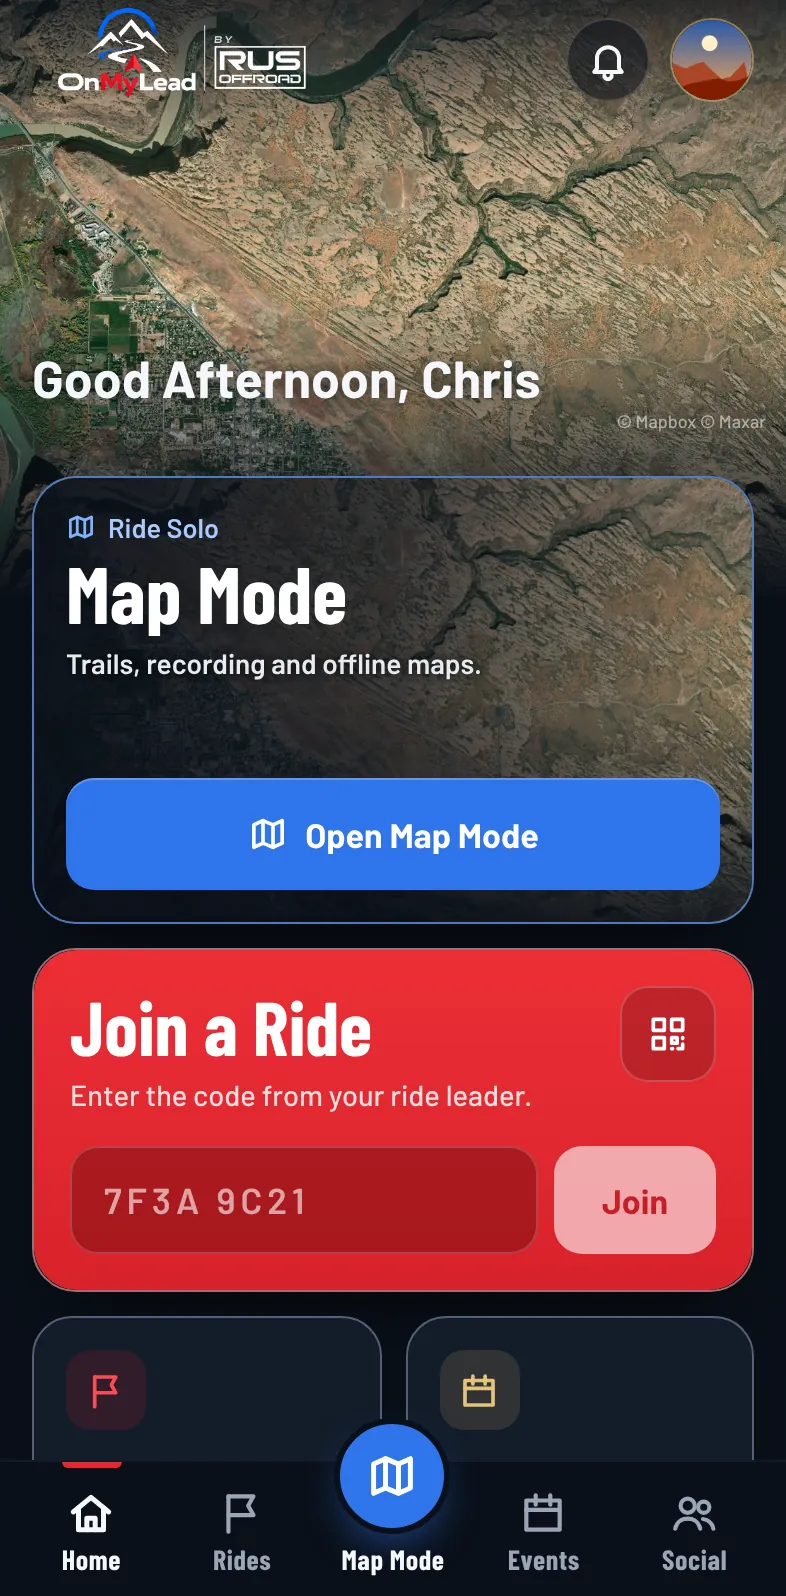
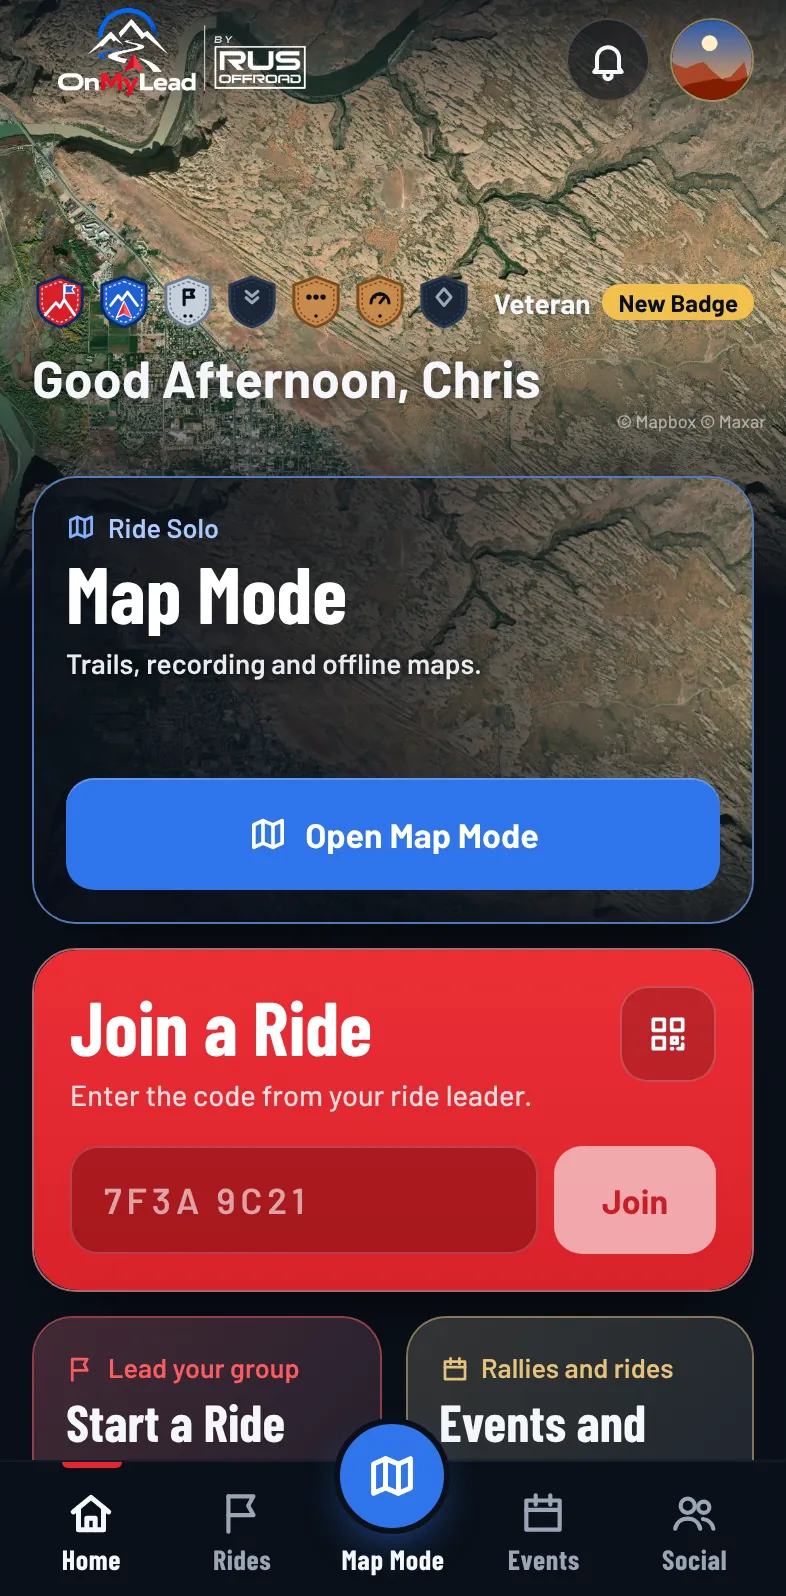
3.1 is live: mark it released and turn on the 3.1 showcase
The App Store and Google Play both have 3.1 (Apple lookup 3.1, released 2026-11-16 22:47Z;
Play shows 3.1). help/release.json live 3.1 with the build 22 / versionCode 16 record, release
notes dated, SHOWCASE_EASY_LEAVE, SHOWCASE_QUICK_CREATE and SHOWCASE_EVENTS_AND_RIDES on, and fresh
Create a Ride (create-3) and Home (home-3, new tiles) screens from store/tools/web-shots.

Parity: no feature change (website and Help Center publish what 3.1 already shipped)

Claude-Session: https://claude.ai/code/session_018oU3wjV3t9GXzp67fQMv3d

Changed region(s): [[0.0305, 0.7982, 0.4885, 0.9211], [0.0305, 0.1535, 0.9771, 0.2149], [0.5191, 0.7982, 0.855, 0.9211]]

diff --git a/app/src/components/showcase.web.tsx b/app/src/components/showcase.web.tsx
@@ -137,7 +137,9 @@ export function Showcase() {
             <Step
               n={1}
               shot="create"
-              alt="Create a Ride with The Route set to Mapped, next to Freeride, and the vehicles welcome"
+              alt={SHOWCASE_QUICK_CREATE
+                ? 'The 3.1 Create a Ride screen, already filled in: Today, a meeting time, Where You Are Now, Freeride, Friends I Invite, More Options and Create Private Ride'
+                : 'Create a Ride with The Route set to Mapped, next to Freeride, and the vehicles welcome'}
               title="Create a Ride"
               text={SHOWCASE_QUICK_CREATE
                 ? 'One short screen, already filled in: today, the next quarter hour, where you are, and a ride for the friends you invite. Tap Create and share the link, or tap the day, the time or the meeting point to change it. Your last meeting spots are one tap. Pick Mapped and tap along the trail so the route snaps to it, or import a GPX file, or pick Freeride and everyone follows the leader. Under More Options, set which machines are welcome or make it approval-only.'
@@ -613,7 +615,7 @@ function Step({ n, shot, alt, title, text, points }: { n: number; shot: string; 
  * the 2.x ones once 3.0 is live: `name-3.webp` sits beside `name.webp` until SHOWCASE_REDESIGN_3 is on.
  * Remake them with store/tools/web-shots/showcase.sh.
  */
-const FRESH_3 = new Set(['group-map', 'find', 'live', 'navigate', 'vehicle']);
+const FRESH_3 = new Set(['group-map', 'find', 'live', 'navigate', 'vehicle', ...(SHOWCASE_QUICK_CREATE ? ['create'] : [])]);
 const v3 = (name: string) => (SHOWCASE_REDESIGN_3 && FRESH_3.has(name) ? `${name}-3` : name);
 
 // The headline features of OnMyLead 3.0, each with the real screen. Pro features say so.

diff --git a/app/src/constants/site.ts b/app/src/constants/site.ts
@@ -99,7 +99,7 @@ export const SHOWCASE_REDESIGN_3: boolean = true;
  * The showcase's Leave Any Time line in its 3.1 words (Leave Ride beside You're Going under the
  * ride's name, and under Exit in Ride Mode). Off until the app version with it (3.1) is live in the stores.
  */
-export const SHOWCASE_EASY_LEAVE: boolean = false;
+export const SHOWCASE_EASY_LEAVE: boolean = true;
 /**
  * True once 3.2 is in the stores: the organizer ends the ride for everyone from Ride Mode's Exit
  * sheet (End Ride for Everyone). Until then the showcase doesn't mention it.
@@ -110,9 +110,9 @@ export const SHOWCASE_END_RIDE_IN_MODE: boolean = false;
  * and where you are; everything else under More Options). Off until the app version with it (3.1)
  * is live in the stores; when it flips, retake the step's screenshot (site/create) too.
  */
-export const SHOWCASE_QUICK_CREATE: boolean = false;
+export const SHOWCASE_QUICK_CREATE: boolean = true;
 /**
  * The showcase's Events card in its 3.1 words (Events and Group Rides: events, public group rides
  * near you and your own, under one switch). Off until the app version with it (3.1) is live in the stores.
  */
-export const SHOWCASE_EVENTS_AND_RIDES: boolean = false;
+export const SHOWCASE_EVENTS_AND_RIDES: boolean = true;
